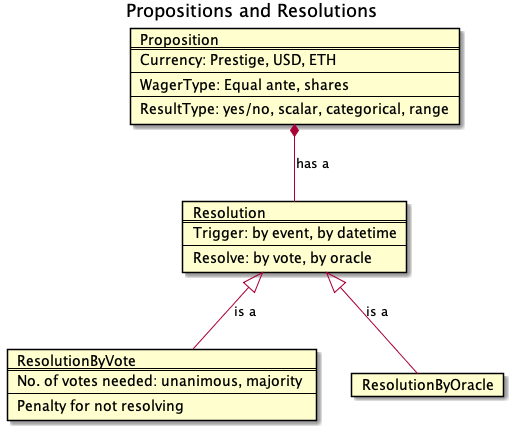
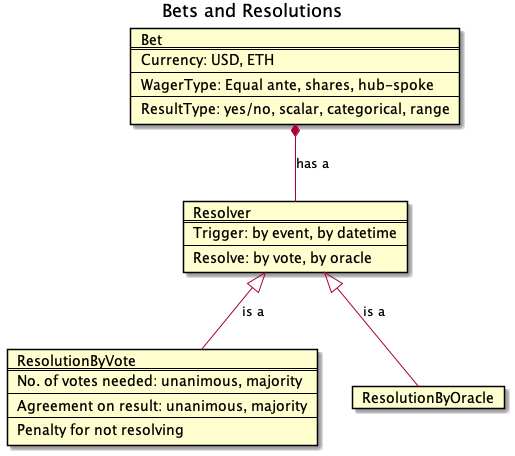
Implemented BetAgainstMe bet type

Changed region(s): [[0.0, 0.0, 0.9027, 0.9954], [0.6537, 0.8144, 0.9961, 0.935]]

diff --git a/src/tests/test-betagainstme.ts b/src/tests/test-betagainstme.ts
@@ -1,0 +1,83 @@
+import "@nomiclabs/hardhat-ethers";
+import "@nomiclabs/hardhat-waffle";
+import { ethers } from "hardhat";
+import { Signer, ContractFactory, Contract } from "ethers";
+import { expect } from "chai";
+
+describe("BetAgainstMe", function () {
+    let commissioner: Signer, hub: Signer, spoke1: Signer, spoke2: Signer;
+    let commissioner_address: string, hub_address: string, spoke1_address: string, spoke2_address: string;
+    let betFactory: ContractFactory;
+    let bet: Contract;
+
+    beforeEach(async function () {
+        betFactory = await ethers.getContractFactory("BetAgainstMe");
+        [commissioner, hub, spoke1, spoke2] = await ethers.getSigners();
+        commissioner_address = await commissioner.getAddress();
+        hub_address = await hub.getAddress();
+        spoke1_address = await spoke1.getAddress();
+        spoke2_address = await spoke2.getAddress();
+
+        const date = Date.now();
+
+        bet = await betFactory.deploy(
+            "Test BetAgainstMe" + date, 
+            date+360, 
+            date+720,
+            hub_address,
+            "Yes",
+            "No"
+        );
+
+        await bet.connect(commissioner).addMember(hub_address);
+        await bet.connect(commissioner).addMember(spoke1_address);
+        await bet.connect(commissioner).addMember(spoke2_address);
+    });
+
+    describe("Contract Setup", function() {
+
+        it("Should test the contract setup", async function () { expect.fail("Test not implemented"); });
+
+    });
+
+    describe("Betting", function() {
+        it("Should allow the hub to set and then increase their wagered amount", async function () { 
+            bet.connect(hub).wager({value: 100});
+            expect(await bet.connect(hub).getMyWager()).to.equal(100);
+
+            bet.connect(hub).wager({value: 100});
+            expect(await bet.connect(hub).getMyWager()).to.equal(200);
+        });
+
+        it("Should allow a spoke to bet up to the available amount", async function () { 
+            bet.connect(hub).wager({value: 100});
+            expect(await bet.connect(hub).getMyWager()).to.equal(100);
+
+            bet.connect(spoke1).wager({value: 90});
+            expect(await bet.connect(spoke1).getMyWager()).to.equal(90);
+
+            bet.connect(spoke2).wager({value: 10});
+            expect(await bet.connect(spoke2).getMyWager()).to.equal(10);
+        });
+        
+        it("Should not allow a spoke to bet more than the hub has available", async function () { 
+            bet.connect(hub).wager({value: 100});
+            expect(await bet.connect(hub).getMyWager()).to.equal(100);
+
+            bet.connect(spoke1).wager({value: 90});
+            expect(await bet.connect(spoke1).getMyWager()).to.equal(90);
+
+            await expect(bet.connect(spoke2).wager({value: 11})).to.be.reverted;
+        });
+    });
+
+    describe("Payment", function() {
+
+        it("Should pay spokes if hub was wrong", async function () { expect.fail("Test not implemented"); });
+        it("Should pay hub if hub was right", async function () { expect.fail("Test not implemented"); });
+
+    });
+
+    // it("Should ... ", async function () { expect.fail("Test not implemented"); });
+
+});

diff --git a/src/configs/hardhat.config.ts b/src/configs/hardhat.config.ts
@@ -1,6 +1,8 @@
-import { task } from "hardhat/config";
+import "@typechain/hardhat";
+import "@nomiclabs/hardhat-ethers";
 import "@nomiclabs/hardhat-waffle";
 import "@nomiclabs/hardhat-web3";
+import { task } from "hardhat/config";
 
 task("balance", "Prints an account's balance")
   .addParam("account", "The account's address")

diff --git a/src/tests/test-eabet.ts b/src/tests/test-eabet.ts
@@ -1,3 +1,5 @@
+import "@nomiclabs/hardhat-ethers";
+import "@nomiclabs/hardhat-waffle";
 import { ethers } from "hardhat";
 import { Signer, ContractFactory, Contract } from "ethers";
 import { expect } from "chai";

diff --git a/src/tests/test-resolver.ts b/src/tests/test-resolver.ts
@@ -1,3 +1,5 @@
+import "@nomiclabs/hardhat-ethers";
+import "@nomiclabs/hardhat-waffle";
 import { ethers } from "hardhat";
 import { Signer, ContractFactory, Contract } from "ethers";
 import { expect } from "chai";
